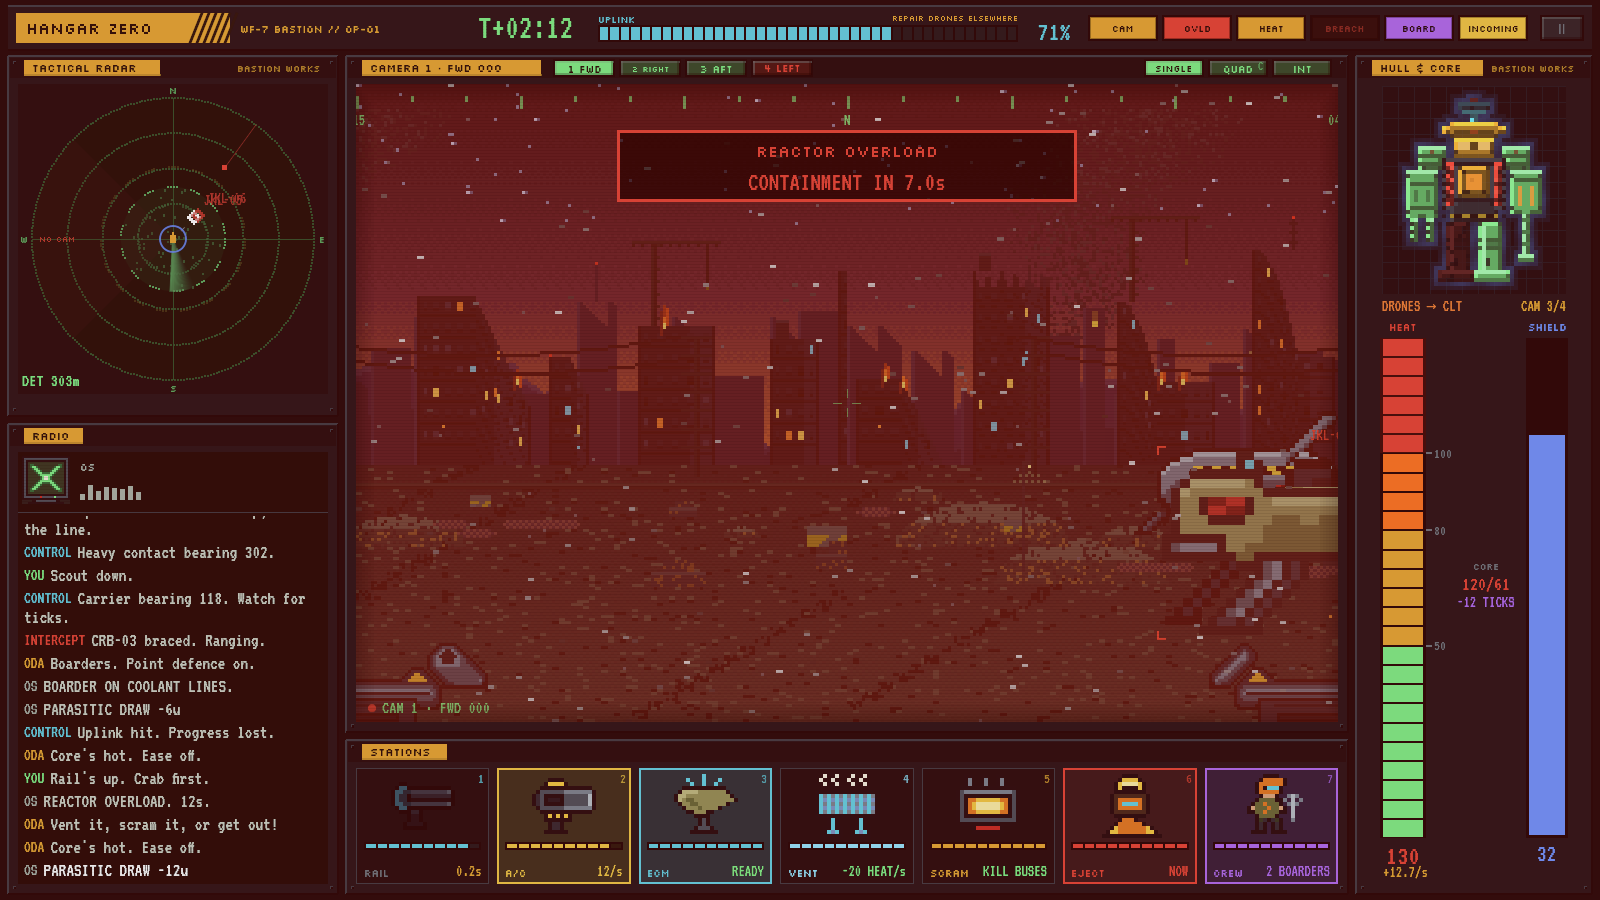
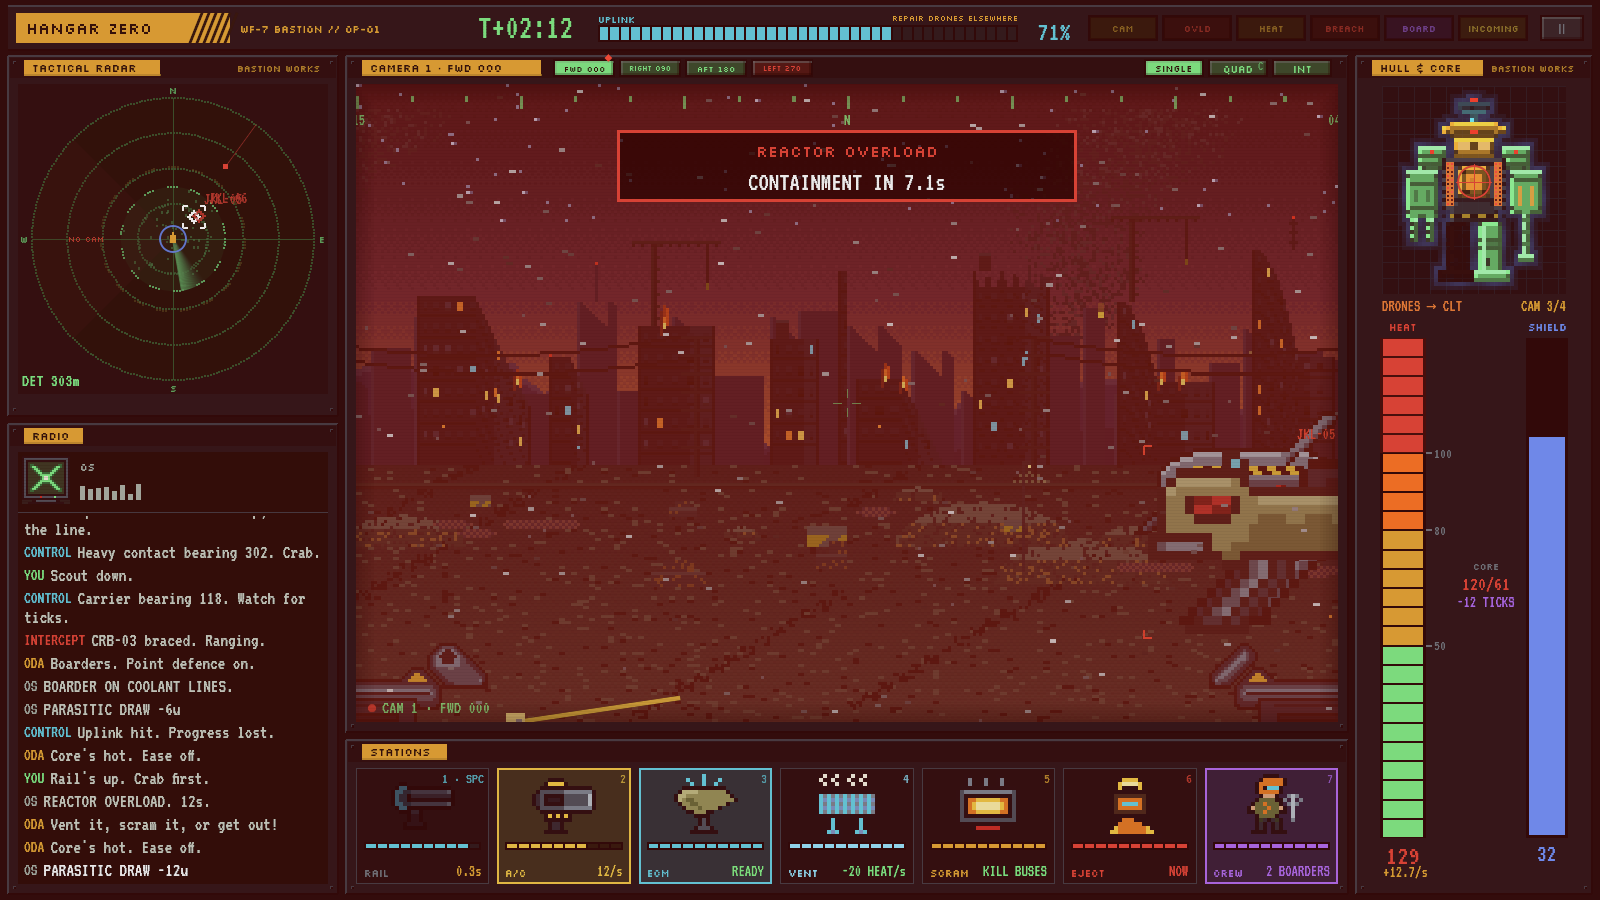
Ten polish rounds on the camera-first console
Radar-only blips re-sample again after the sweep wraps (the sample timer
compared raw sweep angles); camera selector buttons no longer look like
hotbar keys; the CAM alarm only lights for cameras lost this op; subtler
scanlines on the feed; hand-repair status names the camera being rewired;
a target marker on the camera buttons plus an off-camera edge arrow that
says how many Tabs to turn; one terse callout per wave; boarded sections
pulse purple; the nearest contact is acquired after a kill; NO CAM label
moved off the compass letters.

Claude-Session: https://claude.ai/code/session_0185kqkbtDYzfnnQofExGTRs

diff --git a/src/ui/cockpit.rs b/src/ui/cockpit.rs
@@ -248,7 +248,7 @@ fn top_bar(ui: &mut Ui, rect: Rect, mech: &Mech, mission: &mut Mission, scene: &
 
     // Alarm lamps
     let lamps: [(&str, bool, Color32); 6] = [
-        ("CAM", mech.cameras_up() < CAMERAS, AMBER),
+        ("CAM", mech.cameras_up() < mech.cams_at_start, AMBER),
         ("OVLD", mech.overload.is_some(), RED),
         ("HEAT", mech.heat > 80.0, AMBER),
         ("BREACH", mech.breach.is_some() || mech.interlocks_failed, RED),
@@ -401,7 +401,7 @@ fn radar_panel(ui: &mut Ui, rect: Rect, mech: &mut Mech, campaign: &Campaign, sc
             pts.push(polar(c, 1.0, a0 + CAMERA_FOV * i as f32 / 12.0, rad));
         }
         p.add(egui::Shape::convex_polygon(pts, Color32::from_rgba_unmultiplied(120, 30, 30, 50), Stroke::NONE));
-        let lp = polar(c, 1.0, camera_bearing(cam), rad * 0.82);
+        let lp = polar(c, 1.0, camera_bearing(cam), rad * 0.62);
         if (scene.t * 1.2).fract() < 0.7 {
             text(&p, lp, Align2::CENTER_CENTER, "NO CAM", pix(8.0), RED.gamma_multiply(0.8));
         }
@@ -543,14 +543,25 @@ fn feed_panel(
         x += 64.0;
     }
     // Camera selectors
+    let target_cam = mech.target.and_then(|t| scene.enemies.iter().find(|(e, _)| *e == t)).map(|(_, e)| camera_for(e.est_angle));
     if !interior {
         let mut x = rect.min.x + 14.0 + title.len() as f32 * 8.6 + 30.0;
         for cam in 0..CAMERAS {
             let ok = mech.camera_ok(cam);
             let col = if ok { GREEN } else { RED };
-            let lbl = format!("{} {}", cam + 1, CAMERA_NAMES[cam]);
-            if pbutton(ui, Rect::from_min_size(Pos2::new(x, rect.min.y + 3.0), Vec2::new(62.0, 18.0)), &lbl, col, true, mech.active_cam == cam).clicked() {
+            let lbl = format!("{} {:03.0}", CAMERA_NAMES[cam], camera_bearing(cam).to_degrees());
+            let br = Rect::from_min_size(Pos2::new(x, rect.min.y + 3.0), Vec2::new(62.0, 18.0));
+            if pbutton(ui, br, &lbl, col, true, mech.active_cam == cam).clicked() {
                 mech.active_cam = cam;
+            }
+            // The selected target sits in this quadrant.
+            if target_cam == Some(cam) && (scene.t * 3.0).fract() < 0.7 {
+                let c = Pos2::new(br.max.x - 7.0, br.min.y - 1.0);
+                ui.painter().add(egui::Shape::convex_polygon(
+                    vec![c + Vec2::new(0.0, -4.0), c + Vec2::new(4.0, 0.0), c + Vec2::new(0.0, 4.0), c + Vec2::new(-4.0, 0.0)],
+                    Color32::from_rgb(255, 80, 60),
+                    Stroke::NONE,
+                ));
             }
             x += 66.0;
         }
@@ -564,7 +575,7 @@ fn feed_panel(
         let fr = Rect::from_center_size(inner.center(), Vec2::new(FEED_W * scale, FEED_H * scale));
         let p = ui.painter_at(fr);
         interior_view(ui, &p, fr, scale, art, mech, cmds, scene);
-        scanlines(&p, fr, 46);
+        scanlines(&p, fr, 24);
         vignette(&p, fr);
     } else if st.cam_mode == CamMode::Quad {
         let gap = 4.0;
@@ -577,7 +588,7 @@ fn feed_panel(
             let fr = Rect::from_center_size(cell.center(), Vec2::new(FEED_W * scale, FEED_H * scale));
             let p = ui.painter_at(fr);
             cam_view(&p, fr, scale, cam, art, mech, fx, campaign, scene);
-            scanlines(&p, fr, 46);
+            scanlines(&p, fr, 24);
             vignette(&p, fr);
             if mech.active_cam == cam {
                 p.rect_stroke(fr, CornerRadius::ZERO, Stroke::new(2.0, AMBER), StrokeKind::Inside);
@@ -591,7 +602,7 @@ fn feed_panel(
         let fr = Rect::from_center_size(inner.center(), Vec2::new(FEED_W * scale, FEED_H * scale));
         let p = ui.painter_at(fr);
         cam_view(&p, fr, scale, mech.active_cam, art, mech, fx, campaign, scene);
-        scanlines(&p, fr, 46);
+        scanlines(&p, fr, 24);
         vignette(&p, fr);
     }
 }
@@ -801,6 +812,29 @@ fn cam_view(p: &egui::Painter, fr: Rect, s: f32, cam: usize, art: &Art, mech: &M
             text(p, px(x, tape_y + 5.0), Align2::CENTER_TOP, lbl, mono(16.0), GREEN);
         }
     }
+    // Off-camera target: an arrow on the edge it is nearest to, with how far to turn.
+    if let Some((_, e)) = mech.target.and_then(|t| scene.enemies.iter().find(|(en, _)| *en == t)) {
+        let rel = angle_diff(e.est_angle, bearing);
+        if rel.abs() >= fov * 0.6 {
+            let right = rel > 0.0;
+            let c = Color32::from_rgb(255, 80, 60);
+            let blink = (scene.t * 3.0).fract() < 0.7;
+            if blink {
+                let ex = if right { fr.max.x - 10.0 * s } else { fr.min.x + 10.0 * s };
+                let ey = fr.center().y;
+                let dir = if right { 1.0 } else { -1.0 };
+                p.add(egui::Shape::convex_polygon(
+                    vec![Pos2::new(ex + 6.0 * s * dir, ey), Pos2::new(ex - 4.0 * s * dir, ey - 7.0 * s), Pos2::new(ex - 4.0 * s * dir, ey + 7.0 * s)],
+                    c,
+                    Stroke::NONE,
+                ));
+                let turns = ((rel.abs() / CAMERA_FOV).round() as i32).max(1);
+                let hint = format!("{}-{:02}  {}", e.kind.callsign(), e.serial, if right { format!("TAB ×{turns}") } else { format!("SHIFT+TAB ×{turns}") });
+                let tx = if right { ex - 8.0 * s } else { ex + 8.0 * s };
+                text(p, Pos2::new(tx, ey), if right { Align2::RIGHT_CENTER } else { Align2::LEFT_CENTER }, hint, mono(18.0), c);
+            }
+        }
+    }
     let cc = px(FEED_W / 2.0, FEED_H * 0.5);
     for (a, b) in [(Vec2::new(-14.0, 0.0), Vec2::new(-5.0, 0.0)), (Vec2::new(5.0, 0.0), Vec2::new(14.0, 0.0)), (Vec2::new(0.0, -14.0), Vec2::new(0.0, -5.0)), (Vec2::new(0.0, 5.0), Vec2::new(0.0, 14.0))] {
         p.line_segment([cc + a, cc + b], Stroke::new(1.0, GREEN.gamma_multiply(0.7)));
@@ -967,13 +1001,24 @@ fn interior_view(ui: &mut Ui, p: &egui::Painter, fr: Rect, s: f32, art: &Art, me
     };
     let (pos, status) = match mech.pilot {
         Pilot::Seat => (floor(&room_rect[&Section::Cockpit]), "CLICK A COMPARTMENT TO CRAWL THERE".to_string()),
-        Pilot::Crawling { to, t, dur } => (path(to, t / dur), format!("CRAWLING TO {} ... {:.1}s", to.name(), dur - t)),
+        Pilot::Crawling { to, t, dur } => (path(to, t / dur), format!("CRAWLING TO {} ... {:.0}s", to.name(), (dur - t).ceil())),
         Pilot::Working { at, t } => {
             let n = scene.boarders_on(at);
-            let msg = if n > 0 { format!("FIGHTING BOARDERS ({n}) ... {:.0}%", (t / 2.2 * 100.0).min(100.0)) } else { format!("HAND REPAIR: {} +5/s", at.name()) };
+            let cam_job = (at == Section::Sensors)
+                .then(|| (0..CAMERAS).filter(|c| mech.cameras[*c] < CAMERA_HP).min_by(|a, b| mech.cameras[*a].total_cmp(&mech.cameras[*b])))
+                .flatten();
+            let msg = if n > 0 {
+                format!("FIGHTING BOARDERS ({n}) ... {:.0}%", (t / 2.2 * 100.0).min(100.0))
+            } else if let Some(cam) = cam_job {
+                format!("REWIRING {} CAMERA ... {:.0}%", CAMERA_NAMES[cam], mech.cameras[cam] / CAMERA_HP * 100.0)
+            } else if mech.frac(at) < 1.0 || (at == Section::Uplink && mech.uplink() < 100.0) {
+                format!("HAND REPAIR: {}", at.name())
+            } else {
+                format!("{}: NOTHING TO FIX", at.name())
+            };
             (floor(&room_rect[&at]), msg)
         }
-        Pilot::Returning { from, t, dur } => (path(from, 1.0 - t / dur), format!("RETURNING TO CHAIR ... {:.1}s", dur - t)),
+        Pilot::Returning { from, t, dur } => (path(from, 1.0 - t / dur), format!("RETURNING TO CHAIR ... {:.0}s", (dur - t).ceil())),
     };
     let _ = seat;
     art.sprites.pilot.paint(p, pos - Vec2::new(4.0 * s, 0.0), s, 0.0, None, false);
@@ -1095,6 +1140,15 @@ fn hull_panel(ui: &mut Ui, rect: Rect, art: &Art, mech: &mut Mech, cmds: &mut Pi
                 // Crack pattern on damaged parts
                 if sec != Section::Uplink && f < 0.6 && hash2(x, y, 4).is_multiple_of(7) {
                     c = c.gamma_multiply(0.4);
+                }
+                // Boarders gnawing on a section: a slow purple pulse.
+                if scene.boarders_on(sec) > 0 {
+                    let k = ((t * 3.0).sin() * 0.5 + 0.5) as f32 * 0.6;
+                    c = Color32::from_rgb(
+                        (c.r() as f32 + (PURPLE.r() as f32 - c.r() as f32) * k) as u8,
+                        (c.g() as f32 + (PURPLE.g() as f32 - c.g() as f32) * k) as u8,
+                        (c.b() as f32 + (PURPLE.b() as f32 - c.b() as f32) * k) as u8,
+                    );
                 }
                 // A hit lights the section up and fades.
                 let flash = mech.hit_t[sec.idx()];
@@ -1285,9 +1339,9 @@ fn hotbar_panel(ui: &mut Ui, rect: Rect, art: &Art, mech: &mut Mech, cmds: &mut 
     } else if !rail_ready {
         (if st.rail_rate > 0.0 { format!("{:.1}s", (1.0 - mech.rail_charge) / st.rail_rate) } else { "NO POWER".into() }, AMBER)
     } else if !lock {
-        ("NO LOCK".into(), AMBER)
+        ("T: TARGET".into(), AMBER)
     } else if radar_only {
-        (format!("RADAR {:.0}%", hitp * 100.0), AMBER)
+        (format!("{:.0}% RADAR", hitp * 100.0), AMBER)
     } else {
         (format!("{:.0}% HIT", hitp * 100.0), GREEN)
     };
@@ -1312,8 +1366,8 @@ fn hotbar_panel(ui: &mut Ui, rect: Rect, art: &Art, mech: &mut Mech, cmds: &mut 
     };
     let overload = mech.overload.is_some();
     let slots = [
-        Slot { name: "RAIL", key: "1", color: CYAN, charge: mech.rail_charge, status: rail_status.0, status_col: rail_status.1, enabled: seated && rail_ready && lock && mech.scram_t <= 0.0, lit: rail_ready && lock },
-        Slot { name: "A/C", key: "2", color: YELLOW, charge: if mech.ac_firing { ((scene.t * 6.0).fract()) as f32 } else { 1.0 }, status: ac_status.0, status_col: ac_status.1, enabled: !ac_dead && campaign.matrix[Sys::Autocannon.idx()], lit: mech.weapons_free && !ac_dead },
+        Slot { name: "RAIL", key: "1 · SPC", color: CYAN, charge: mech.rail_charge, status: rail_status.0, status_col: rail_status.1, enabled: seated && rail_ready && lock && mech.scram_t <= 0.0, lit: rail_ready && lock },
+        Slot { name: "A/C", key: "2", color: YELLOW, charge: if mech.ac_firing { 1.0 - ((scene.t * 1.5).fract()) as f32 } else { 1.0 }, status: ac_status.0, status_col: ac_status.1, enabled: !ac_dead && campaign.matrix[Sys::Autocannon.idx()], lit: mech.weapons_free && !ac_dead },
         Slot { name: "ECM", key: "3", color: CYAN, charge: 1.0 - mech.ecm_cd / 28.0, status: if ecm_ok { "READY".into() } else if mech.ecm_cd > 0.0 { format!("{:.0}s", mech.ecm_cd) } else { "NO SENSORS".into() }, status_col: if ecm_ok { GREEN } else { DIM }, enabled: ecm_ok && seated, lit: ecm_ok },
         Slot { name: "VENT", key: "4", color: Color32::from_rgb(150, 230, 255), charge: 1.0 - mech.vent_cd / 25.0, status: if mech.vent_t > 0.0 { "VENTING".into() } else if mech.vent_cd > 0.0 { format!("{:.0}s", mech.vent_cd) } else { "-20 HEAT/s".into() }, status_col: if mech.vent_cd <= 0.0 { GREEN } else { DIM }, enabled: mech.vent_cd <= 0.0 && seated, lit: mech.vent_t > 0.0 },
         Slot { name: "SCRAM", key: "5", color: AMBER, charge: 1.0 - mech.scram_cd / 30.0, status: if mech.scram_t > 0.0 { format!("DEAD {:.0}s", mech.scram_t) } else if mech.scram_cd > 0.0 { format!("{:.0}s", mech.scram_cd) } else { "KILL BUSES".into() }, status_col: if mech.scram_cd <= 0.0 { GREEN } else { DIM }, enabled: mech.scram_cd <= 0.0 && seated, lit: mech.scram_t > 0.0 },
@@ -1535,7 +1589,7 @@ fn overlays(ctx: &egui::Context, art: &Art, mech: &Mech, mission: &mut Mission, 
         for (k, v) in [
             ("TAB", "next camera clockwise (SHIFT+TAB back)"),
             ("C", "camera wall: all four feeds"),
-            ("T / click", "select target"),
+            ("T / click radar", "select target (next contact is picked after a kill)"),
             ("1-7", "stations: rail · a/c · ECM · vent · scram · eject · crew"),
             ("SPACE", "fire railgun"),
             ("click hull", "send repair drones there"),

diff --git a/src/sim.rs b/src/sim.rs
@@ -248,6 +248,8 @@ pub struct Mech {
     pub cameras: [f32; CAMERAS],
     /// Seconds-ish since each section last took damage (1 = just now), for the diagram.
     pub hit_t: [f32; 10],
+    /// Cameras working when the op began; the CAM alarm only fires for losses since.
+    pub cams_at_start: usize,
     pub active_cam: usize,
     pub quad_view: bool,
     /// Snapshot of the derived numbers for the UI.
@@ -310,6 +312,7 @@ impl Mech {
             kills: 0,
             cameras: campaign.cameras,
             hit_t: [0.0; 10],
+            cams_at_start: campaign.cameras.iter().filter(|c| **c >= CAMERA_MIN).count(),
             active_cam: 0,
             quad_view: false,
             stats: Derived::default(),
@@ -419,6 +422,7 @@ pub struct Enemy {
     /// Bearing error of the estimate in radians; 0 when camera-covered.
     pub err: f32,
     pub covered: bool,
+    /// Mission time of the last radar sample.
     pub last_sweep: f32,
 }
 
@@ -704,22 +708,26 @@ fn spawn_waves(
     }
     mission.next_wave += 1;
     let bearing = rng.range(0.0, TAU);
+    // One callout per wave, naming the heaviest thing in it.
+    let heaviest = kinds.iter().copied().max_by_key(|k| match k {
+        EnemyKind::Artillery => 2,
+        EnemyKind::Carrier => 1,
+        EnemyKind::Scout => 0,
+    });
+    let n = kinds.len();
     for kind in kinds {
         let a = bearing + rng.range(-0.5, 0.5);
         let d = rng.range(950.0, 1100.0);
         spawn_enemy(&mut commands, &mut rng, &mut mission, kind, a, d);
-        match kind {
-            EnemyKind::Scout => {}
-            EnemyKind::Artillery => radio.say(
-                Voice::Control,
-                format!("Heavy contact bearing {:03.0}.", bearing_deg(a)),
-            ),
-            EnemyKind::Carrier => radio.say(
-                Voice::Control,
-                format!("Carrier bearing {:03.0}. Watch for ticks.", bearing_deg(a)),
-            ),
-        }
     }
+    let brg = bearing_deg(bearing);
+    let line = match heaviest {
+        Some(EnemyKind::Artillery) => format!("Heavy contact bearing {brg:03.0}. Crab."),
+        Some(EnemyKind::Carrier) => format!("Carrier bearing {brg:03.0}. Watch for ticks."),
+        _ if n > 1 => format!("{n} scouts bearing {brg:03.0}."),
+        _ => format!("Scout bearing {brg:03.0}."),
+    };
+    radio.say(Voice::Control, line);
 }
 
 pub fn bearing_deg(a: f32) -> f32 {
@@ -1128,7 +1136,12 @@ fn weapons(
             commands.entity(e).despawn();
             mech.kills += 1;
             if mech.target == Some(e) {
-                mech.target = None;
+                // Acquire the nearest remaining contact so the next shot is not lost to a keypress.
+                mech.target = enemies
+                    .iter()
+                    .filter(|(o, en)| *o != e && en.hp > 0.0 && en.dist <= st.radar_range)
+                    .min_by(|a, b| a.1.dist.total_cmp(&b.1.dist))
+                    .map(|(o, _)| o);
             }
             let line = match en.kind {
                 EnemyKind::Scout => "Scout down.",
@@ -1286,7 +1299,7 @@ fn hit_mech(mech: &mut Mech, mission: &mut Mission, s: Section, dmg: f32, from: 
 
 /// Radar contacts: a camera-covered contact is tracked exactly; anything else is a
 /// blip re-sampled on every sweep pass with an error that sensor power shrinks.
-fn sensor_fusion(mut rng: ResMut<Rng>, mech: Res<Mech>, campaign: Res<Campaign>, mut enemies: Query<&mut Enemy>) {
+fn sensor_fusion(mut rng: ResMut<Rng>, mech: Res<Mech>, campaign: Res<Campaign>, mission: Res<Mission>, mut enemies: Query<&mut Enemy>) {
     let st = mech.stats;
     let sens = st.eff[Sys::Sensors.idx()];
     let head = mech.frac(Section::Sensors);
@@ -1304,9 +1317,9 @@ fn sensor_fusion(mut rng: ResMut<Rng>, mech: Res<Mech>, campaign: Res<Campaign>,
         e.covered = false;
         // Did the sweep cross this contact since the last sample?
         let since = (mech.sweep - e.angle).rem_euclid(TAU);
-        let passed = since < 0.12 && mech.sweep - e.last_sweep > 1.0 || was_covered;
+        let passed = (since < 0.12 && mission.time - e.last_sweep > 1.0) || was_covered;
         if passed || e.last_sweep < -5.0 {
-            e.last_sweep = mech.sweep;
+            e.last_sweep = mission.time;
             let err = base_err.to_radians();
             e.err = err;
             e.est_angle = (e.angle + rng.range(-err, err)).rem_euclid(TAU);

diff --git a/src/shots.rs b/src/shots.rs
@@ -135,9 +135,9 @@ fn stage_combat(scene: &str, commands: &mut Commands, _rng: &mut Rng, mech: &mut
     radio.time = 0.0;
     radio.log.clear();
     let script: [(f32, Voice, &str); 12] = [
-        (0.0, Voice::System, "COLD START. 3 FAULTS."),
+        (0.0, Voice::System, "COLD START. 4 FAULTS."),
         (2.0, Voice::Control, "Uplink's dark. Get it up, hold the line."),
-        (31.0, Voice::Control, "Heavy contact bearing 302."),
+        (31.0, Voice::Control, "Heavy contact bearing 302. Crab."),
         (47.0, Voice::Pilot, "Scout down."),
         (56.0, Voice::Control, "Carrier bearing 118. Watch for ticks."),
         (66.0, Voice::Enemy, "CRB-03 braced. Ranging."),

diff --git a/src/main.rs b/src/main.rs
@@ -128,7 +128,7 @@ fn start_mission(mut commands: Commands, campaign: Res<Campaign>, mut radio: Res
     *radio = Radio::default();
     fx.list.clear();
     *cmds = PilotCommands::default();
-    radio.say(Voice::System, "COLD START. 3 FAULTS.");
+    radio.say(Voice::System, "COLD START. 4 FAULTS.");
     radio.say(Voice::Control, "Uplink's dark. Get it up, hold the line.");
     if campaign.mission > 1 {
         radio.say(Voice::Chief, format!("Op {:02}. She's not what she was.", campaign.mission));

diff --git a/README.md b/README.md
@@ -148,7 +148,7 @@ Or you take the **Bastion Original Spares** and try to keep her the machine she 
 |---|---|
 | `Tab` / `Shift+Tab` | Turn to the next hull camera clockwise / counter-clockwise |
 | `C` / QUAD | Camera wall: all four feeds at once |
-| Click radar blip / contact row, `T` | Select target |
+| Click radar blip, `T` | Select target (the nearest contact is picked for you after a kill) |
 | `1`–`7` / click a station | RAIL · A/C · ECM · VENT · SCRAM · EJECT · CREW |
 | `Space` | Fire railgun (needs full charge and a target inside radar range) |
 | Click the hull diagram | Send repair drones to that section |
